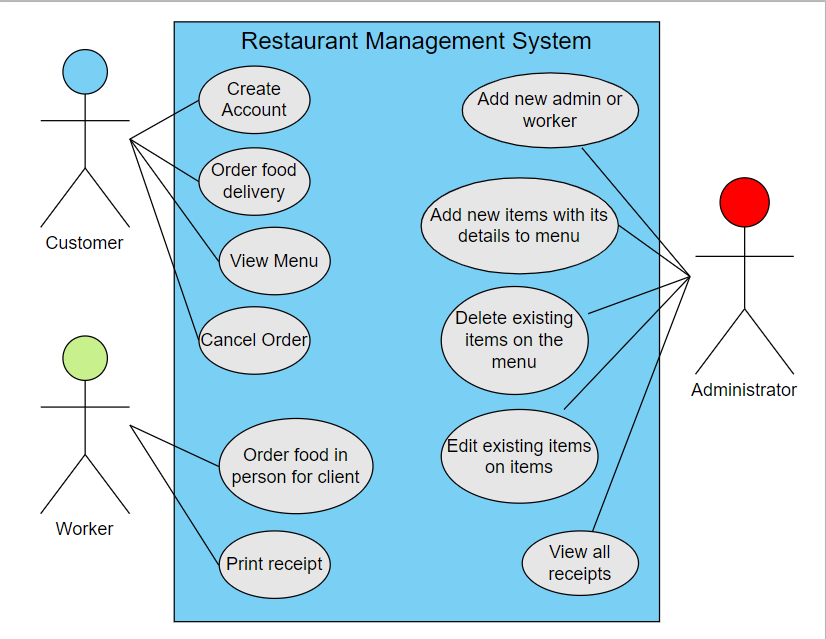
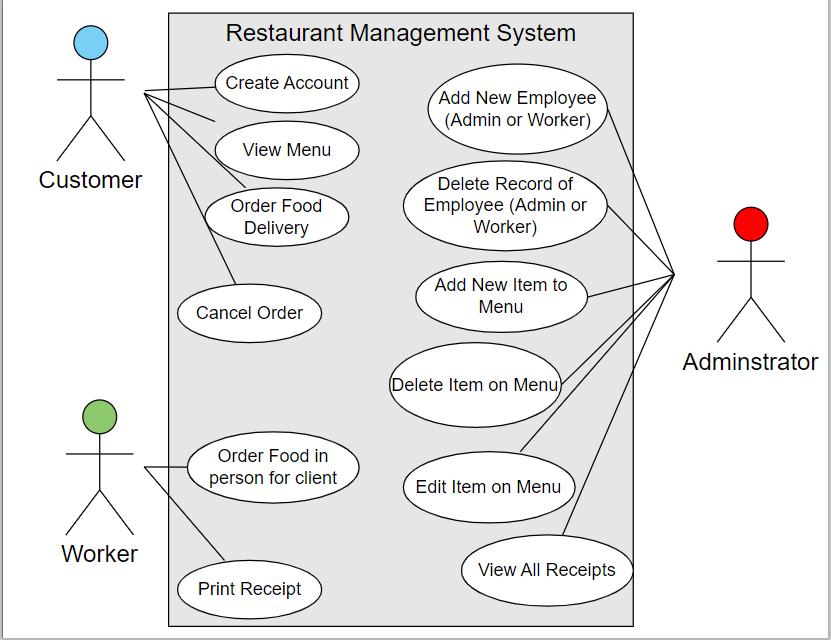
Day-2
Changes:
1) Changed the User Diagram to make it more accurate to what the admin is actually doing.
2) The Admin can add a picture to the new menu item that they want to add and it will display correctly and is validated and hashed into random numbers incase 2 pictures share the same name.

Currently Working On:
1) Going to start working on the Customer side of the project, the customer will be able to create an account, then view the menu with the items added by the admin, 
2) Going to add a UI to the project instead of it being only in ugly text.

diff --git a/add_menu_item/add-menu-item-form.php b/add_menu_item/add-menu-item-form.php
@@ -1,5 +1,71 @@
 <!-- This file is to add new item to menu -->
 
+<!-- connects to database -->
+<?php
+    #file that has db connection
+    include "../db-connection.php";
+    
+    #runs the open connection function
+    $conn = OpenConnection();
+    // echo "Connected Successfully";
+    echo "<script>console.log('Database Connected Successful');</script>";
+?>
+
+<!-- This php section is the process to add the new menu item to the database -->
+<?php
+    if(isset($_POST["submit"])){
+        $foodName = $_POST["foodName"];
+        $foodPrice = $_POST["foodPrice"];
+        $foodCategory = $_POST["foodCategory"];
+        if($_FILES["image"]["error"] == 4){
+            echo
+            "<script> alert('Image Does Not Exist'); </script>"
+            ;
+        }
+        else{
+            $fileName = $_FILES["image"]["name"];
+            $fileSize = $_FILES["image"]["size"];
+            $tmpName = $_FILES["image"]["tmp_name"];
+        
+            $validImageExtension = ['jpg', 'jpeg', 'png'];
+            $imageExtension = explode('.', $fileName);
+            $imageExtension = strtolower(end($imageExtension));
+            if ( !in_array($imageExtension, $validImageExtension) ){
+                echo
+                "
+                <script>
+                alert('Invalid Image Extension');
+                </script>
+                ";
+            }
+            else if($fileSize > 1000000){
+                echo
+                "
+                <script>
+                alert('Image Size Is Too Large');
+                </script>
+                ";
+            }
+            else{
+                $newImageName = uniqid();
+                $newImageName .= '.' . $imageExtension;
+        
+                move_uploaded_file($tmpName, 'img/' . $newImageName);
+                $query = "INSERT INTO foodmenu VALUES('', '$foodName', '$foodPrice', '$foodCategory', '$newImageName')";
+                mysqli_query($conn, $query);
+                echo
+                "
+                <script>
+                alert('Successfully Added');
+                document.location.href = 'display-menu-data.php';
+                </script>
+                ";
+            }
+        }
+    }
+?>
+
+
 <html>
     <head>
         <style>
@@ -14,7 +80,7 @@
     <body>
         <h2> Add new Item </h2>
         <!-- will send the submitted data to that file where it will be added to the database -->
-        <form action="send-new-menu-item.php" method="post"> 
+        <form method="post" autocomplete="off" enctype="multipart/form-data"> 
             Select new food type:<br>
             <select name="foodCategory" required>
                 <option value="1"> Main Course </option>
@@ -24,13 +90,13 @@
             </select><br><br>
             
             Enter Food Name:<br>
-            <input type="text" name="foodName" required><br><br>
+            <input type="text" name="foodName" id="foodName"required><br><br>
 
             Enter Food Price:<br>
-            <input type="number" name="foodPrice" required><br><br>
+            <input type="number" name="foodPrice" id="foodPrice" required><br><br>
 
-            <!-- Select Image:<br>
-            <input type="file" name="upload" accept="image/*" required><br><br> -->
+            Select Image:<br>
+            <input type="file" name="image" id="image" accept="image/*" required><br><br>
             
             <input type="submit" name="submit">
         </form>
@@ -38,3 +104,8 @@
         Go to Display Menu Items: <a href="display-menu-data.php">Here</a>
     </body>
 </html>
+
+<?php
+    #runs the close connection function
+    CloseConnection($conn);
+?>

diff --git a/add_menu_item/display-menu-data.php b/add_menu_item/display-menu-data.php
@@ -27,6 +27,7 @@
             <th>food name</th>
             <th>food price</th>
             <th>food category</th>
+            <th>image</th>
             <th>edit</th>
             <th>delete</th>
             
@@ -38,12 +39,29 @@
                 // checks if rows are more than 0 (is there any data inside table)
                 if($result -> num_rows > 0){
                     while($row = $result -> fetch_assoc()){
+                        // Switches the food Category numbering into its actual Name
+                        if($row["foodCategory"] == 1){
+                            $foodCategoryNamed = "Main Course";
+                        }
+                        elseif($row["foodCategory"] == 2){
+                            $foodCategoryNamed = "Dessert";
+                        }
+                        elseif($row["foodCategory"] == 3){
+                            $foodCategoryNamed = "Appetizer";
+                        }
+                        elseif($row["foodCategory"] == 4){
+                            $foodCategoryNamed = "Drink";
+                        }
+                        else{
+                            $foodCategoryNamed = "Something went wrong";
+                        }
                         echo "
                         <tr>
                             <td>" . $row["ID"] . "</td>
                             <td>" . $row["foodName"] . "</td>
                             <td>" . $row["foodPrice"] . "</td>
-                            <td>" . $row["foodCategory"] . "</td>
+                            <td>" . $foodCategoryNamed . "</td>
+                            <td> <img src='img/".$row['image'] ."' width='200'> </td>
                             <td> <a href='display-menu-data.php?ID=".$row["ID"] ."'> DELETE </a> </td>
                             <td> <a href='edit-menu-form.php?ID=".$row["ID"] ."'> Edit/Update </a> </td>
                         </tr>";

diff --git a/add_employee/display-employee-data.php b/add_employee/display-employee-data.php
@@ -42,6 +42,19 @@
                 // checks if rows are more than 0 (is there any data inside table)
                 if($result -> num_rows > 0){
                     while($row = $result -> fetch_assoc()){
+                        // Switches the usertype numbering into its actual Name
+                        if($row["usertype"] == 0){
+                            $usertypeNamed = "Customer (Shouldn't be in this table)";
+                        }
+                        elseif($row["usertype"] == 1){
+                            $usertypeNamed = "Administrator";
+                        }
+                        elseif($row["usertype"] == 2){
+                            $usertypeNamed = "Worker";
+                        }
+                        else{
+                            $usertypeNamed = "Something went wrong";
+                        }
                         echo "
                         <tr>
                             <td>" . $row["ID"] . "</td>
@@ -50,7 +63,7 @@
                             <td>" . $row["password"] . "</td>
                             <td>" . $row["age"] . "</td>
                             <td>" . $row["gender"] . "</td>
-                            <td>" . $row["usertype"] . "</td>
+                            <td>" . $usertypeNamed . "</td>
                             <td> <a href='display-employee-data.php?ID=".$row["ID"] ."'> DELETE </a> </td>
                             <td> <a href='edit-employee-form.php?ID=".$row["ID"] ."'> Edit/Update </a> </td>
                         </tr>";

diff --git a/index.php b/index.php
@@ -1,5 +1,3 @@
 <a href="add_employee/add-employee-form.php"> Head to adding Employee Record</a>
 <br><br>
 <a href="add_menu_item/add-menu-item-form.php"> Head to adding new Food Item</a>
-<br><br>
-<a href="imgTest.php"> Image Test</a>
